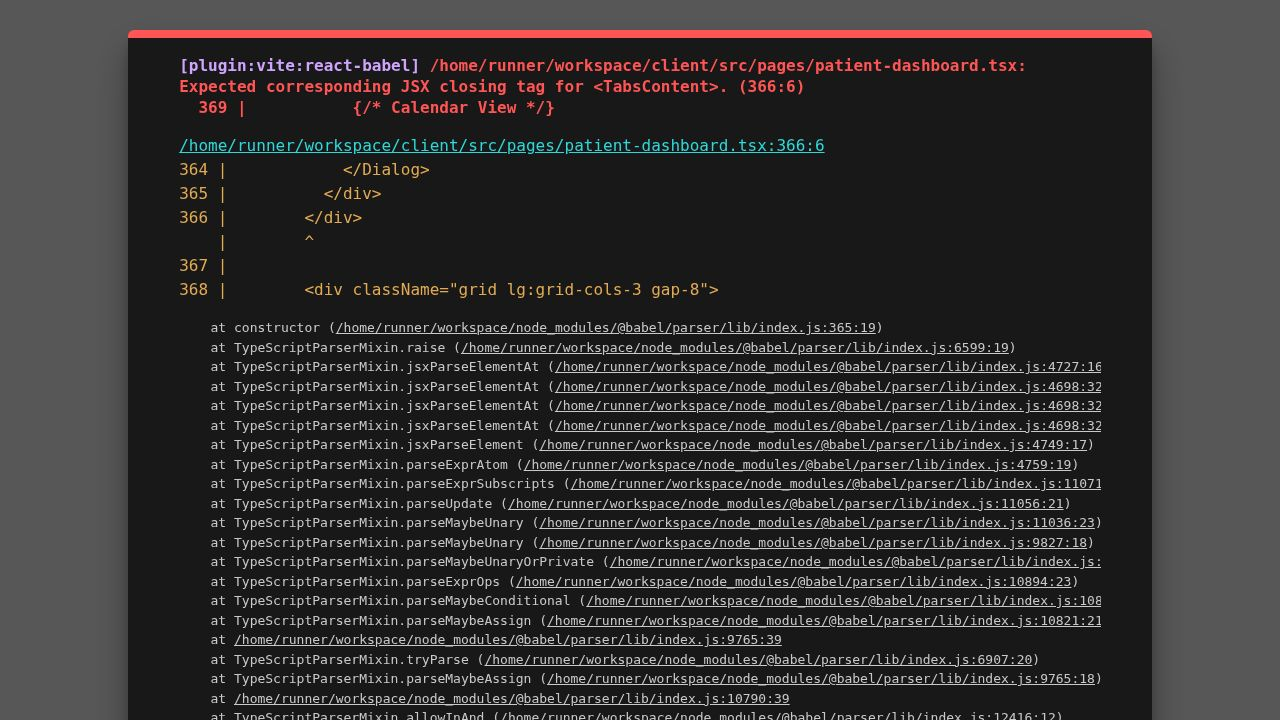
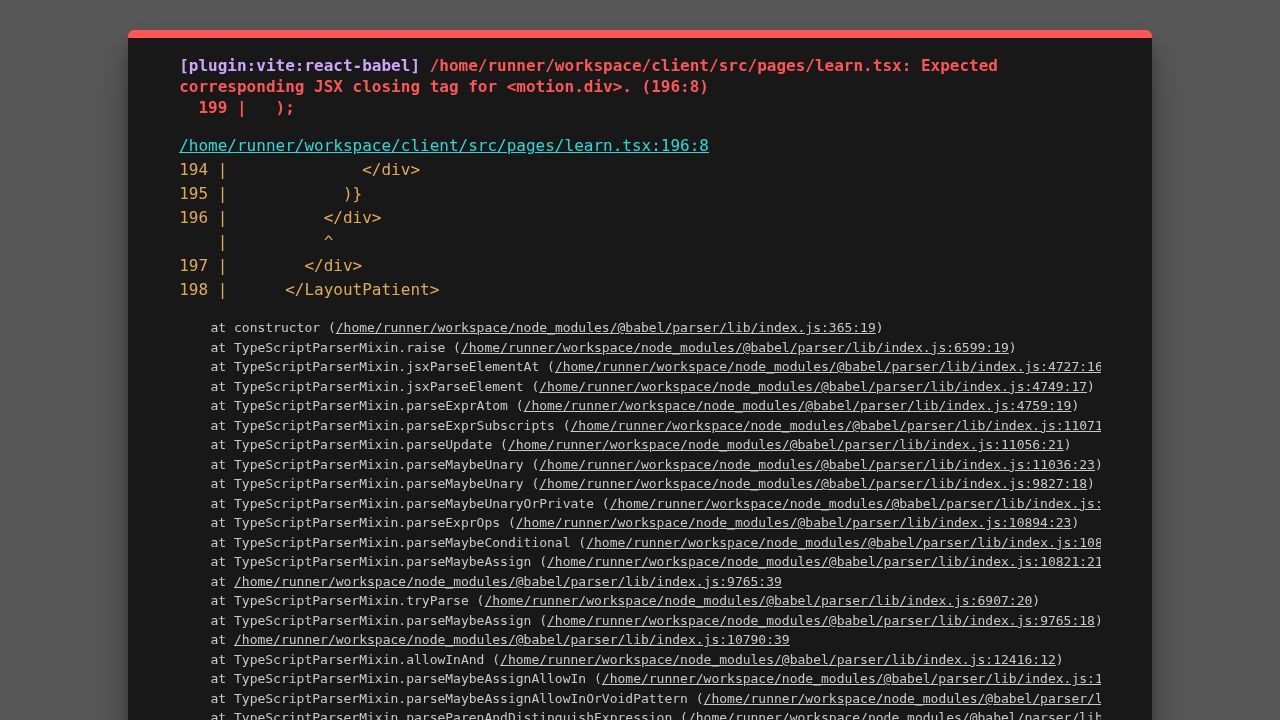
Add animations to highlight application features and improve user experience
Integrates Framer Motion to animate various UI elements across the Home, Chat Assistant, Learn, and Patient Dashboard pages, enhancing visual feedback and user engagement.

Replit-Commit-Author: Agent
Replit-Commit-Session-Id: 94342c9f-cecd-45cb-8c7e-70c3b24a7c3e
Replit-Commit-Checkpoint-Type: full_checkpoint
Replit-Commit-Event-Id: 590d2fda-42af-4006-8cb0-fa7d069918b7
Replit-Commit-Screenshot-Url: https://storage.googleapis.com/screenshot-production-us-central1/f57d9400-adc5-46e2-a29b-3086c1e1310c/94342c9f-cecd-45cb-8c7e-70c3b24a7c3e/YbSnJNN
Replit-Helium-Checkpoint-Created: true

diff --git a/client/src/pages/patient-dashboard.tsx b/client/src/pages/patient-dashboard.tsx
@@ -16,6 +16,7 @@ import { ScrollArea } from "@/components/ui/scroll-area";
 import { Progress } from "@/components/ui/progress";
 import { Tabs, TabsContent, TabsList, TabsTrigger } from "@/components/ui/tabs";
 import { Input } from "@/components/ui/input";
+import { motion } from "framer-motion";
 
 // Mock Data Structure for Diary Entry
 type DiaryEntry = {
@@ -366,59 +367,90 @@ export default function PatientDashboard() {
 
         <div className="grid lg:grid-cols-3 gap-8">
           {/* Calendar View */}
-          <Card className="lg:col-span-1 h-fit">
-            <CardHeader>
-              <CardTitle className="text-lg">Calendar</CardTitle>
-            </CardHeader>
-            <CardContent className="flex justify-center">
-               <Calendar 
-                  mode="single"
-                  selected={date}
-                  onSelect={setDate}
-                  className="rounded-md border shadow-sm"
-                  modifiers={{
-                    hasEntry: (d) => history.some(h => format(h.date, 'yyyy-MM-dd') === format(d, 'yyyy-MM-dd')),
-                    highPain: (d) => history.some(h => format(h.date, 'yyyy-MM-dd') === format(d, 'yyyy-MM-dd') && h.painLevel >= 7)
-                  }}
-                  modifiersClassNames={{
-                    hasEntry: "bg-primary/20 font-bold",
-                    highPain: "bg-destructive/20 text-destructive font-bold"
-                  }}
-               />
-            </CardContent>
-          </Card>
+          <motion.div
+            initial={{ opacity: 0, x: -20 }}
+            animate={{ opacity: 1, x: 0 }}
+            transition={{ duration: 0.5 }}
+            className="lg:col-span-1 h-fit"
+          >
+            <Card>
+              <CardHeader>
+                <CardTitle className="text-lg">Calendar</CardTitle>
+              </CardHeader>
+              <CardContent className="flex justify-center">
+                 <Calendar 
+                    mode="single"
+                    selected={date}
+                    onSelect={setDate}
+                    className="rounded-md border shadow-sm"
+                    modifiers={{
+                      hasEntry: (d) => history.some(h => format(h.date, 'yyyy-MM-dd') === format(d, 'yyyy-MM-dd')),
+                      highPain: (d) => history.some(h => format(h.date, 'yyyy-MM-dd') === format(d, 'yyyy-MM-dd') && h.painLevel >= 7)
+                    }}
+                    modifiersClassNames={{
+                      hasEntry: "bg-primary/20 font-bold",
+                      highPain: "bg-destructive/20 text-destructive font-bold"
+                    }}
+                 />
+              </CardContent>
+            </Card>
+          </motion.div>
 
           {/* Diary Feed / Stats */}
           <div className="lg:col-span-2 space-y-6">
             {/* Quick Stats */}
             <div className="grid grid-cols-2 sm:grid-cols-3 gap-4">
-               <Card className="bg-primary/5 border-none shadow-sm">
-                 <CardContent className="p-4 flex flex-col items-center justify-center text-center">
-                    <span className="text-3xl font-bold text-primary">
-                      {history.filter(h => h.painLevel > 0).length}
-                    </span>
-                    <span className="text-xs text-muted-foreground uppercase tracking-wider font-semibold mt-1">Pain Days (Month)</span>
-                 </CardContent>
-               </Card>
-               <Card className="bg-secondary/10 border-none shadow-sm">
-                 <CardContent className="p-4 flex flex-col items-center justify-center text-center">
-                    <span className="text-3xl font-bold text-secondary-foreground">
-                       {(history.reduce((acc, curr) => acc + curr.painLevel, 0) / (history.length || 1)).toFixed(1)}
-                    </span>
-                    <span className="text-xs text-muted-foreground uppercase tracking-wider font-semibold mt-1">Avg Pain Level</span>
-                 </CardContent>
-               </Card>
-               <Card className="bg-orange-50 border-none shadow-sm hidden sm:block">
-                 <CardContent className="p-4 flex flex-col items-center justify-center text-center">
-                    <span className="text-3xl font-bold text-orange-600">
-                      {history.filter(h => h.triggers.length > 0).length}
-                    </span>
-                    <span className="text-xs text-muted-foreground uppercase tracking-wider font-semibold mt-1">Trigger Events</span>
-                 </CardContent>
-               </Card>
+               <motion.div
+                 initial={{ opacity: 0, scale: 0.9 }}
+                 animate={{ opacity: 1, scale: 1 }}
+                 transition={{ duration: 0.4 }}
+               >
+                 <Card className="bg-primary/5 border-none shadow-sm h-full">
+                   <CardContent className="p-4 flex flex-col items-center justify-center text-center h-full">
+                      <span className="text-3xl font-bold text-primary">
+                        {history.filter(h => h.painLevel > 0).length}
+                      </span>
+                      <span className="text-xs text-muted-foreground uppercase tracking-wider font-semibold mt-1">Pain Days (Month)</span>
+                   </CardContent>
+                 </Card>
+               </motion.div>
+               <motion.div
+                 initial={{ opacity: 0, scale: 0.9 }}
+                 animate={{ opacity: 1, scale: 1 }}
+                 transition={{ duration: 0.4, delay: 0.1 }}
+               >
+                 <Card className="bg-secondary/10 border-none shadow-sm h-full">
+                   <CardContent className="p-4 flex flex-col items-center justify-center text-center h-full">
+                      <span className="text-3xl font-bold text-secondary-foreground">
+                         {(history.reduce((acc, curr) => acc + curr.painLevel, 0) / (history.length || 1)).toFixed(1)}
+                      </span>
+                      <span className="text-xs text-muted-foreground uppercase tracking-wider font-semibold mt-1">Avg Pain Level</span>
+                   </CardContent>
+                 </Card>
+               </motion.div>
+               <motion.div
+                 initial={{ opacity: 0, scale: 0.9 }}
+                 animate={{ opacity: 1, scale: 1 }}
+                 transition={{ duration: 0.4, delay: 0.2 }}
+                 className="hidden sm:block"
+               >
+                 <Card className="bg-orange-50 border-none shadow-sm h-full">
+                   <CardContent className="p-4 flex flex-col items-center justify-center text-center h-full">
+                      <span className="text-3xl font-bold text-orange-600">
+                        {history.filter(h => h.triggers.length > 0).length}
+                      </span>
+                      <span className="text-xs text-muted-foreground uppercase tracking-wider font-semibold mt-1">Trigger Events</span>
+                   </CardContent>
+                 </Card>
+               </motion.div>
             </div>
 
             {/* Recent Entries */}
+            <motion.div
+              initial={{ opacity: 0, y: 20 }}
+              animate={{ opacity: 1, y: 0 }}
+              transition={{ duration: 0.5, delay: 0.3 }}
+            >
             <Card>
               <CardHeader className="pb-3">
                 <CardTitle className="text-lg flex items-center gap-2">
@@ -482,6 +514,7 @@ export default function PatientDashboard() {
                 </ScrollArea>
               </CardContent>
             </Card>
+            </motion.div>
             </div>
           </div>
         </TabsContent>

diff --git a/client/src/pages/home.tsx b/client/src/pages/home.tsx
@@ -7,6 +7,8 @@ import { Link } from "wouter";
 import { useLanguage } from "@/lib/i18n";
 import heroImage from "@assets/ChatGPT_Image_Feb_13,_2026,_10_37_23_PM_1771022255876.png";
 
+import { motion } from "framer-motion";
+
 export default function HomePage() {
   const { t } = useLanguage();
 
@@ -16,7 +18,12 @@ export default function HomePage() {
       <section className="relative overflow-hidden bg-secondary/30 py-12 md:py-24 lg:py-32">
         <div className="container px-4 md:px-6 relative z-10">
           <div className="grid gap-12 lg:grid-cols-2 lg:gap-8 items-center">
-            <div className="flex flex-col justify-center space-y-8">
+            <motion.div 
+              className="flex flex-col justify-center space-y-8"
+              initial={{ opacity: 0, x: -50 }}
+              animate={{ opacity: 1, x: 0 }}
+              transition={{ duration: 0.8, ease: "easeOut" }}
+            >
               <div className="space-y-4">
                 <Badge variant="outline" className="w-fit bg-background/50 backdrop-blur border-primary/20 text-primary">
                   {t("hero.badge")}
@@ -55,14 +62,20 @@ export default function HomePage() {
                    {t("hero.clinician_verified")}
                  </span>
               </div>
-            </div>
-            <div className="mx-auto lg:mr-0 rounded-3xl overflow-hidden shadow-2xl shadow-primary/10 border border-white/50 bg-white/30 backdrop-blur-sm p-2 rotate-1 hover:rotate-0 transition-transform duration-500">
+            </motion.div>
+            <motion.div 
+              className="mx-auto lg:mr-0 rounded-3xl overflow-hidden shadow-2xl shadow-primary/10 border border-white/50 bg-white/30 backdrop-blur-sm p-2"
+              initial={{ opacity: 0, scale: 0.9, rotate: -5 }}
+              animate={{ opacity: 1, scale: 1, rotate: 1 }}
+              transition={{ duration: 0.8, delay: 0.2, type: "spring", stiffness: 100 }}
+              whileHover={{ rotate: 0, scale: 1.02 }}
+            >
               <img
                 alt="Endometriosis Care Platform Hero"
                 className="aspect-[4/3] object-cover rounded-2xl bg-muted"
                 src={heroImage}
               />
-            </div>
+            </motion.div>
           </div>
         </div>
         
@@ -79,16 +92,34 @@ export default function HomePage() {
       <section className="py-12 md:py-24 lg:py-32 bg-background">
         <div className="container px-4 md:px-6">
           <div className="text-center mb-16 max-w-2xl mx-auto space-y-4">
-            <h2 className="text-3xl font-serif font-bold tracking-tighter sm:text-4xl text-foreground">
+            <motion.h2 
+              className="text-3xl font-serif font-bold tracking-tighter sm:text-4xl text-foreground"
+              initial={{ opacity: 0, y: 20 }}
+              whileInView={{ opacity: 1, y: 0 }}
+              viewport={{ once: true }}
+              transition={{ duration: 0.5 }}
+            >
               {t("features.title")}
-            </h2>
-            <p className="text-muted-foreground md:text-lg">
+            </motion.h2>
+            <motion.p 
+              className="text-muted-foreground md:text-lg"
+              initial={{ opacity: 0, y: 20 }}
+              whileInView={{ opacity: 1, y: 0 }}
+              viewport={{ once: true }}
+              transition={{ duration: 0.5, delay: 0.1 }}
+            >
               {t("features.description")}
-            </p>
+            </motion.p>
           </div>
           <div className="grid gap-6 md:grid-cols-2 lg:grid-cols-3">
-            <Card className="border-none shadow-lg shadow-primary/5 hover:shadow-primary/10 transition-shadow">
-              <CardHeader>
+            <motion.div
+              initial={{ opacity: 0, y: 30 }}
+              whileInView={{ opacity: 1, y: 0 }}
+              viewport={{ once: true }}
+              transition={{ duration: 0.5, delay: 0.2 }}
+            >
+              <Card className="border-none shadow-lg shadow-primary/5 hover:shadow-primary/10 transition-shadow h-full">
+                <CardHeader>
                 <Activity className="h-10 w-10 text-primary mb-2" />
                 <CardTitle className="font-serif">{t("card.tracking.title")}</CardTitle>
                 <CardDescription>
@@ -129,9 +160,16 @@ export default function HomePage() {
                    <Button variant="link" className="p-0 h-auto text-primary">Chat Now <ArrowRight className="ml-1 h-4 w-4" /></Button>
                 </Link>
               </CardFooter>
-            </Card>
+              </Card>
+            </motion.div>
 
-            <Card className="border-none shadow-lg shadow-primary/5 hover:shadow-primary/10 transition-shadow">
+            <motion.div
+              initial={{ opacity: 0, y: 30 }}
+              whileInView={{ opacity: 1, y: 0 }}
+              viewport={{ once: true }}
+              transition={{ duration: 0.5, delay: 0.4 }}
+            >
+            <Card className="border-none shadow-lg shadow-primary/5 hover:shadow-primary/10 transition-shadow h-full">
               <CardHeader>
                 <FileText className="h-10 w-10 text-secondary-foreground mb-2" />
                 <CardTitle className="font-serif">{t("card.gp.title")}</CardTitle>
@@ -152,6 +190,7 @@ export default function HomePage() {
                 </Link>
               </CardFooter>
             </Card>
+            </motion.div>
           </div>
         </div>
       </section>

diff --git a/client/src/pages/learn.tsx b/client/src/pages/learn.tsx
@@ -7,6 +7,7 @@ import { Tabs, TabsContent, TabsList, TabsTrigger } from "@/components/ui/tabs";
 import { Search, ExternalLink, Calendar, BookOpen, Filter, ArrowRight } from "lucide-react";
 import { useState } from "react";
 import { format } from "date-fns";
+import { motion } from "framer-motion";
 
 // Mock Data for Articles
 type Article = {
@@ -140,8 +141,15 @@ export default function LearnPage() {
 
         <div className="grid gap-6 md:grid-cols-2 lg:grid-cols-3">
           {filteredArticles.length > 0 ? (
-            filteredArticles.map((article) => (
-              <Card key={article.id} className="flex flex-col border-none shadow-md hover:shadow-lg transition-shadow group h-full">
+            filteredArticles.map((article, index) => (
+              <motion.div
+                key={article.id}
+                initial={{ opacity: 0, y: 20 }}
+                animate={{ opacity: 1, y: 0 }}
+                transition={{ duration: 0.4, delay: index * 0.1 }}
+                className="h-full"
+              >
+              <Card className="flex flex-col border-none shadow-md hover:shadow-lg transition-shadow group h-full">
                 <CardHeader>
                   <div className="flex justify-between items-start mb-2">
                     <Badge variant="secondary" className="bg-secondary/50 text-secondary-foreground hover:bg-secondary/70">
@@ -174,6 +182,7 @@ export default function LearnPage() {
                   </Button>
                 </CardFooter>
               </Card>
+              </motion.div>
             ))
           ) : (
             <div className="col-span-full py-12 text-center text-muted-foreground">

diff --git a/client/src/pages/chat-assistant.tsx b/client/src/pages/chat-assistant.tsx
@@ -9,6 +9,7 @@ import { useState, useRef, useEffect } from "react";
 import { Badge } from "@/components/ui/badge";
 import { SAFETY_TRIGGERS, MOCK_RESPONSES, SYSTEM_PROMPT } from "@/lib/rag-system-prompts";
 import { Dialog, DialogContent, DialogDescription, DialogHeader, DialogTitle, DialogTrigger } from "@/components/ui/dialog";
+import { motion, AnimatePresence } from "framer-motion";
 
 type Message = {
   id: string;
@@ -181,9 +182,14 @@ export default function ChatAssistantPage() {
           <CardContent className="flex-1 p-0 overflow-hidden relative">
              <ScrollArea className="h-full p-4 md:p-6">
                 <div className="space-y-6 max-w-3xl mx-auto">
+                  <AnimatePresence>
                   {messages.filter(m => m.role !== 'system').map((msg) => (
-                    <div
+                    <motion.div
                       key={msg.id}
+                      initial={{ opacity: 0, y: 10, scale: 0.95 }}
+                      animate={{ opacity: 1, y: 0, scale: 1 }}
+                      exit={{ opacity: 0, scale: 0.9 }}
+                      transition={{ duration: 0.3 }}
                       className={`flex gap-4 ${msg.role === "user" ? "flex-row-reverse" : "flex-row"}`}
                     >
                       <Avatar className={`h-8 w-8 ${msg.role === "assistant" ? "bg-primary/10" : "bg-secondary"}`}>
@@ -224,8 +230,9 @@ export default function ChatAssistantPage() {
                           </div>
                         )}
                       </div>
-                    </div>
+                    </motion.div>
                   ))}
+                  </AnimatePresence>
                 </div>
              </ScrollArea>
           </CardContent>